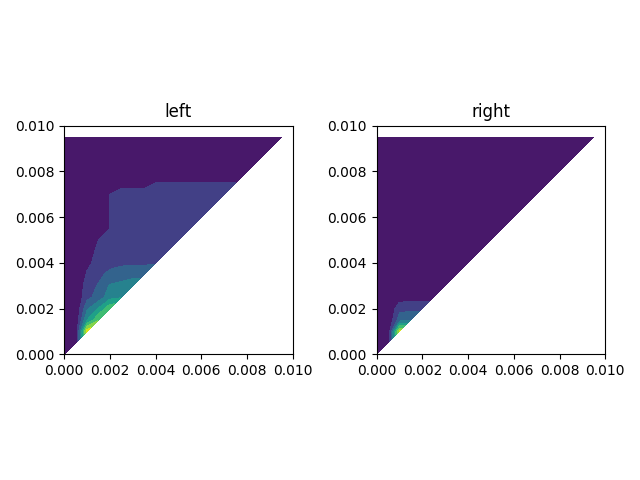
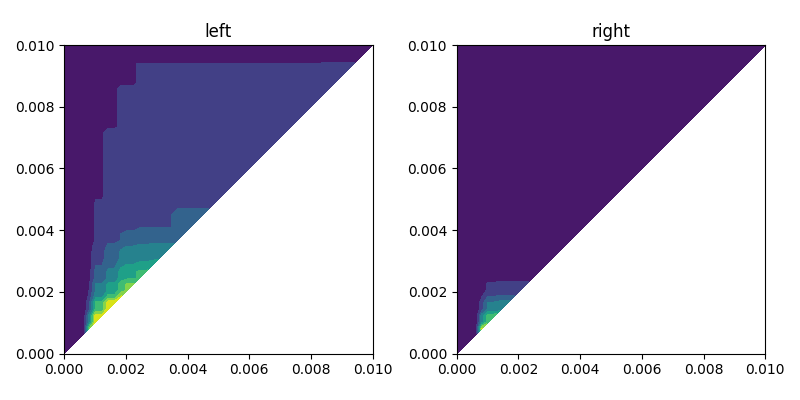
PRFC refactoring

diff --git a/PRFCompare/PRF.py b/PRFCompare/PRF.py
@@ -155,14 +155,16 @@ def get_homology(filt_list):
 	os.chdir('..')
 
 
-def build_PRF(data):
+def build_PRF(data, PRF_res):
 	""" helper for get_rank_func()"""
 	x, y, z, max_lim = data
 	min_lim = 0
 
-	div = .05 * max_lim
-	x_ = np.arange(min_lim, max_lim, div)
-	y_ = np.arange(min_lim, max_lim, div)
+	# div = .05 * max_lim
+	# x_ = np.arange(min_lim, max_lim, div)
+	# y_ = np.arange(min_lim, max_lim, div)
+
+	x_ = y_ = np.linspace(min_lim, max_lim, PRF_res)
 	xx, yy = np.meshgrid(x_, y_)
 
 	pts = zip(x, y, z)
@@ -180,11 +182,11 @@ def build_PRF(data):
 	return [xx, yy, grid_vals, max_lim]
 
 
-def get_PRF(filename, filt_params):
+def get_PRF(filename, filt_params, PRF_res):
 	filt = get_filtration(filename, filt_params)
 	get_homology(filt)
 	intervals = get_interval_data()
-	f = build_PRF(intervals)
+	f = build_PRF(intervals, PRF_res)
 	return f
 
 
@@ -217,7 +219,9 @@ def PRF_dist_plot(dir, base_filename, fname_format,
 				  out_filename,
 				  i_ref, i_arr,
 				  filt_params,
-				  PD_movie_int=5):
+				  PD_movie_int=5,
+				  PRF_res=50  			# number of divisions used for PRF
+				  ):
 
 	""" plots distance from reference rank function over a range of embedded input files"""
 
@@ -269,7 +273,7 @@ def PRF_dist_plot(dir, base_filename, fname_format,
 
 	filename = get_in_filename(i_ref)
 
-	ref_func = get_PRF(filename, filt_params)
+	ref_func = get_PRF(filename, filt_params, PRF_res)
 
 
 	# PRF_contour_plot(ref_func, 'output/PRFCompare/REFERENCE_CONTOUR.png')
@@ -286,7 +290,7 @@ def PRF_dist_plot(dir, base_filename, fname_format,
 		print '\n=================================================='
 		print filename
 		print '==================================================\n'
-		func = get_PRF(filename, filt_params)
+		func = get_PRF(filename, filt_params, PRF_res)
 		funcs.append(func)
 
 		if PD_movie_int:
@@ -297,8 +301,7 @@ def PRF_dist_plot(dir, base_filename, fname_format,
 	ref_func_z = ref_func[2]
 
 
-	# box_area = (ref_func[3] / len(ref_func[2])) ** 2
-	box_area = 1
+	box_area = (1 / PRF_res) ** 2
 
 	diffs = np.array([np.subtract(func_z, ref_func_z) for func_z in funcs_z])
 
@@ -328,7 +331,10 @@ def mean_PRF_dist_plots(
 		normalize_volume=True,
 
 		PD_movie_int = 5,
-	):
+
+		PRF_res=50,  						# number of divisions used for PRF
+
+):
 
 
 	def clear_old_files():
@@ -389,7 +395,7 @@ def mean_PRF_dist_plots(
 			embed(window, 'PRFCompare/temp_data/temp_worm.txt',
 				  False, tau, 2)
 
-			func = get_PRF('PRFCompare/temp_data/temp_worm.txt', filt_params)
+			func = get_PRF('PRFCompare/temp_data/temp_worm.txt', filt_params, PRF_res)
 			funcs.append(func)	# select grid_vals (third element)
 
 			if PD_movie_int:
